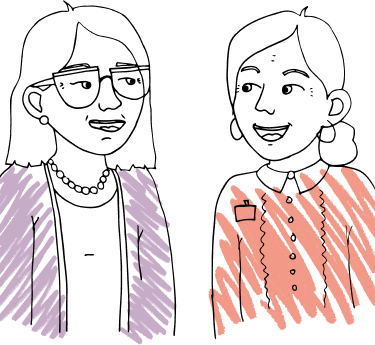
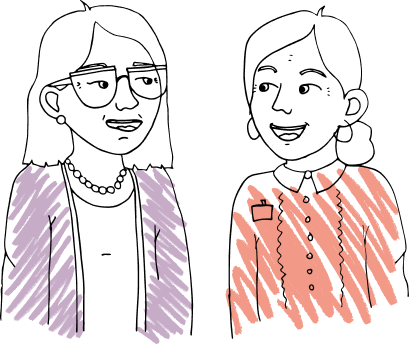
📱 better conclusion.js illlustration responsive

diff --git a/pages/conclusion.js b/pages/conclusion.js
@@ -60,8 +60,11 @@ export default function conclusion () {
         case 3:
             return <Container>
                 <Grid slide="3">
+                    <Item name="header">
+                        <Header style={{ marginBottom: "1rem" }}/>
+                    </Item>
                     <Item name="illustration">
-                        <Illustration style={{ width: "100%" }} src="/illustrations/mother&director.png"/>
+                        <Illustration src="/illustrations/mother&director.png"/>
                     </Item>
                     <Item name="postit">
                         <PostIt>La directrice du musée parle à ta mère.</PostIt>
@@ -118,7 +121,7 @@ export default function conclusion () {
                     </Item>
                 </Grid>
                 <Scheme top="10"/>
-                <Pen bottom="2" />
+                <Pen bottom="2"/>
                 <Pencil bottom="20" left="0"/>
                 <Tube right="0" bottom="5"/>
                 <Brush top="5" right="0"/>
@@ -127,7 +130,7 @@ export default function conclusion () {
 }
 
 const Illustration = styled.img`
-   // width: 75%;
+    height: 40vh;
   `
 
 const Grid = styled.div`
